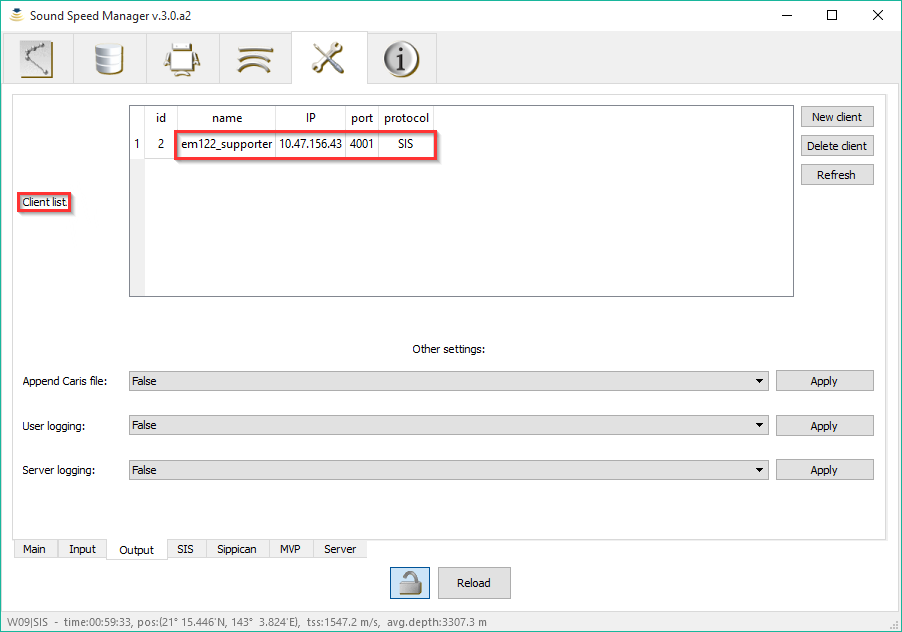
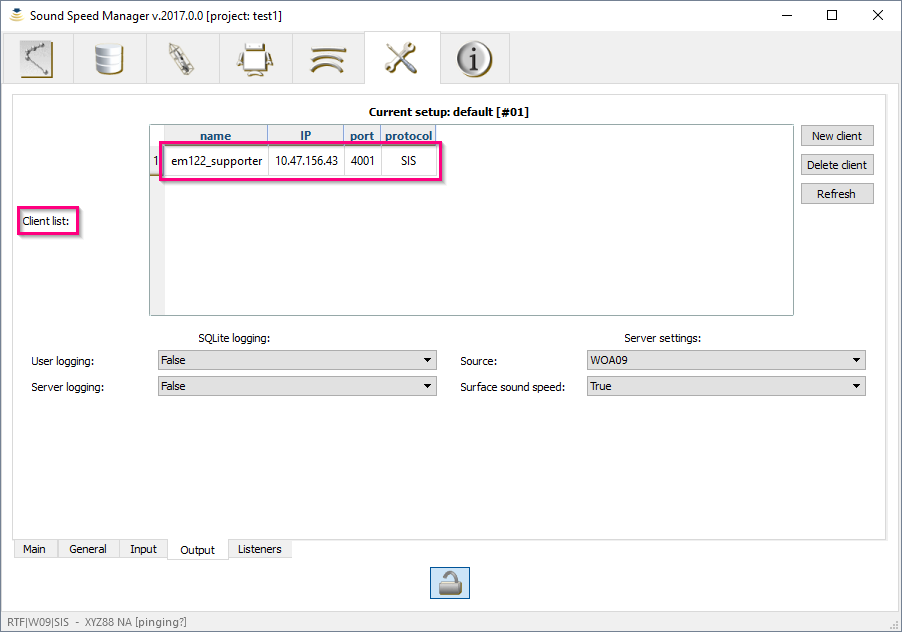
Bug fix in the Settings tab + updates to the installation docs

diff --git a/hydroffice/soundspeedsettings/widgets/output.py b/hydroffice/soundspeedsettings/widgets/output.py
@@ -305,7 +305,7 @@ class Output(AbstractWidget):
             QtGui.QMessageBox.information(self, "Client deletion", "You need to first select the client to delete!")
             return
 
-        client_name = self.client_list.item(rows[0].row(), 1).text()
+        client_name = self.client_list.item(rows[0].row(), 0).text()
         self.db.delete_client(client_name)
         self.setup_changed()
         self.main_win.reload_settings()

diff --git a/docs/user_manual_installation_2_configurations.rst b/docs/user_manual_installation_2_configurations.rst
@@ -6,7 +6,7 @@ Configurations
 Suggested configurations
 ========================
 
-.. index:: install; configurations
+.. index:: configurations
 
 Given its specific aim, *Sound Speed Manager* is usually installed to run in one of two configurations:
 
@@ -14,8 +14,11 @@ On the machine used for sound speed profile acquisition
 -------------------------------------------------------
 
 This represents a quite common choice since many of the operations accomplished in the software are typically done
-immediately after acquisition of a cast. If the machine is on the same network as the multibeam acquisition workstation,
+immediately after acquisition of a cast.
+
+If the machine is on the same network as the multibeam acquisition workstation,
 the processed profile can be directly delivered via network.
+
 When this is not possible, the package can export the processed data to files that can then be manually uploaded
 to the multibeam workstation.
 
@@ -23,26 +26,42 @@ to the multibeam workstation.
 On the multibeam acquisition workstation
 ----------------------------------------
 
-This configuration is particularly useful when it is anticipated that the software will run in Server Mode.
-In fact, it is important that multibeam watch standers are able to monitor the server and to disable it
+This configuration is particularly useful when it is anticipated that the software will run in *Server Mode*.
+In fact, it is important that multibeam watch standers are able to monitor the server, and to disable it
 in the event that a measured profile is to be uploaded.
 
 
 Upgrading
 =========
 
-You will need to migrate specific configuration settings from your previous installation over
-into the new configuration file. The migration of configuration settings is currently done manually.
+.. index:: upgrade;
+
+It is possible to copy configuration settings from a previous installation.
+When a new installation is performed, the user is prompted to select existing configuration settings (if any).
+
+.. figure:: ./_static/existing_setup.png
+    :width: 470px
+    :align: center
+    :height: 122px
+    :alt: alternate text
+    :figclass: align-center
+
+    Select the desired setup and click on the *OK* button to copy an existing setup.
 
 Space requirements
 ==================
 
-Approximately 500MB of additional disk space is required for the WOA09 db set optionally required
+.. index:: WOA; WOA09
+
+Approximately 500 MB of additional disk space is required for the WOA09 db set optionally required
 (but warmly suggested) by this hydro-package. If not available, the package will attempt to download it.
+
 Alternatively, it is also possible to manually download, unpack the WOA09 data set, and modify the configuration file
 to point to the correct path (see :ref:`package_configuration`).
 
-The WOA13 db provides a much better spatial resolution, but this comes with a much larger data size.
+.. index:: WOA; WOA13
+
+Among other improvements, the WOA13 db provides a much better spatial resolution, but this comes with a much larger data size (~18 GB).
 
 .. note:: If a previous version of the application was installed, *Sound Speed Manager* will try to localize already installed
    WOA databases (WOA09 or WOA13).
@@ -52,11 +71,27 @@ The WOA13 db provides a much better spatial resolution, but this comes with a mu
 Package configuration
 =====================
 
-In the *Sound Speed* data folder, you can find a configuration file: ``settings.db``.
+.. index:: configurations
+
+In the *Sound Speed* release data folder, you can find a configuration file: ``setup.db``.
+
 This SQLite database file has to be modified to reflect the chosen software deployment and environment-specific
 configuration settings (e.g., the SIS IP address and ports).
 
-Use the *Settings* tab to modify the available configuration options.
+Use the *Setup* tab to view the available configuration options in the database.
+If you want to modify them, click on the 'Lock/Unlock' button.
+
+.. figure:: ./_static/setup_tab.png
+    :width: 600px
+    :align: center
+    :height: 412px
+    :alt: alternate text
+    :figclass: align-center
+
+    You will be asked to confirm that you want to modify the setup.
+
+
+.. index:: RTOFS
 
 .. warning:: If you want to use the RTOFS data, Internet (and the port 9090) must be accessible from the machine in use.
 
@@ -64,7 +99,7 @@ Use the *Settings* tab to modify the available configuration options.
 Sound Speed Manager - SIS interaction
 =====================================
 
-.. index:: interaction;
+.. index:: SIS
 
 In order to automatically interact with *Kongsberg SIS*, some initial configuration are required on the *SIS* side
 to make it to broadcast a specific subset of datagrams that can then be interpreted by the *SSP* hydro-package
@@ -79,7 +114,7 @@ to make it to broadcast a specific subset of datagrams that can then be interpre
   * The surface sound speed (used in beam forming and steering) and the transducer draft (both used when augmenting SSPs with the measured surface sound speed value).
   * The depth (to estimate the approximate water depth). This is used in the sound speed, temperature and salinity plots to help the user appreciate the minimal depth to which the profiles should be extended.
 
-*Kongsberg SIS* can be configured to broadcast datagrams in different ways:
+*Kongsberg SIS* can be configured to broadcast datagrams in three different ways as discussed in the next sections.
 
 .. _method_1:
 
@@ -179,7 +214,7 @@ The setup of this method is summarized as follows:
 Sound Speed Manager side
 ------------------------
 
-The parameters, present in *settings.db*, can be modified using the *Settings* tab.
+The parameters, present in *setup.db*, can be modified using the *Setup* tab.
 
 .. figure:: ./_static/settings0.png
     :width: 600px
@@ -188,9 +223,9 @@ The parameters, present in *settings.db*, can be modified using the *Settings* t
     :alt: Settings tab
     :figclass: align-center
 
-    The *Settings* tab, in red, can be used to inspect/modify the package settings.
+    The *Setup* tab, in red, can be used to inspect/modify the package settings.
 
-By default, the *Settings* tab is in read-only mode. To be able to modify the package settings, you need to unlock it.
+By default, the *Setup* tab is in read-only mode. To be able to modify the package settings, you need to unlock it.
 
 .. figure:: ./_static/settings1.png
     :width: 600px
@@ -199,10 +234,10 @@ By default, the *Settings* tab is in read-only mode. To be able to modify the pa
     :alt: unlocking the Settings tab
     :figclass: align-center
 
-    The *Settings* tab must be unlocked for settings modifications.
+    The *Setup* tab must be unlocked for settings modifications.
 
-Once unlocked, you can add a settings profile, or you may want to modify one of the existing ones. For the interaction
-with *SIS*, you need to access the *Output* sub-tab and the *SIS* sub-tab.
+Once unlocked, you can add a new setup, or you may want to modify one of the existing ones. For the interaction
+with *SIS*, you need to access the *Output* sub-tab and the *Listeners* sub-tab.
 
 In the *Output* sub-tab, you have to add a client to the *client list* you need to specify:
 
@@ -220,7 +255,7 @@ In the *Output* sub-tab, you have to add a client to the *client list* you need 
 
     The *Client list*, in red, is used to add the *SIS* client information.
 
-In the *SIS* sub-tab, The *List port* entry provides the port to which *SIS* has been configured to broadcast datagrams.
+In the *Listeners* sub-tab, the *Listen port* entry, in red, provides the port to which *SIS* has been configured to broadcast datagrams.
 This should match the port address selected in the previous methods. For instance, ``16103``.
 
 .. figure:: ./_static/settings3.png
@@ -235,5 +270,12 @@ This should match the port address selected in the previous methods. For instanc
 If both *SIS* and *Sound Speed Manager* sides have been properly configured, *Sound Speed Manager* will show (in the right side
 of the lower window statusbar) the date, geographic position, surface sound speed and average depth (when *SIS* is pinging).
 
-.. note:: The surface sound speed and depth will only update if the echosounder is pinging (since the surface sound speed information can only be extracted when *SSP* receives the depth datagram).
+.. figure:: ./_static/settings4.png
+    :width: 600px
+    :align: center
+    :height: 440px
+    :alt: SIS pinging
+    :figclass: align-center
+
+.. note:: The surface sound speed and depth will only update if the echosounder is pinging (since the surface sound speed information can only be extracted when *Sound Speed Manager* receives the depth datagram).
 

diff --git a/docs/user_manual_installation_1_requirements.rst b/docs/user_manual_installation_1_requirements.rst
@@ -5,6 +5,13 @@ Requirements
 .. index:: requirements
 .. index:: dependencies
 
+.. role:: bash(code)
+   :language: bash
+
+.. note::
+    If you download the frozen application (`from the download page <https://www.hydroffice.org/soundspeed/main>`_),
+    you don't need to care about dependencies (and may just skip this section).
+
 If you decide to install the package in a Python environment, the dependencies are:
 
 * `basemap <https://github.com/matplotlib/basemap>`_
@@ -17,6 +24,10 @@ If you decide to install the package in a Python environment, the dependencies a
 * `pyseriale <https://github.com/pyserial/pyserial>`_
 * `PySide <https://github.com/PySide/PySide>`_ *(only for the application)*
 
+If you want to install the last stable version (from PyPI):
 
-If you download the frozen application (`download page <https://www.hydroffice.org/soundspeed/main>`_),
-you don't need to care about dependencies.
+* :bash:`pip install hydroffice.soundspeed`
+
+Or, if you prefer the last bleeding edge code:
+
+* :bash:`pip install https://github.com/hydroffice/hyo_soundspeed/archive/master.zip`
